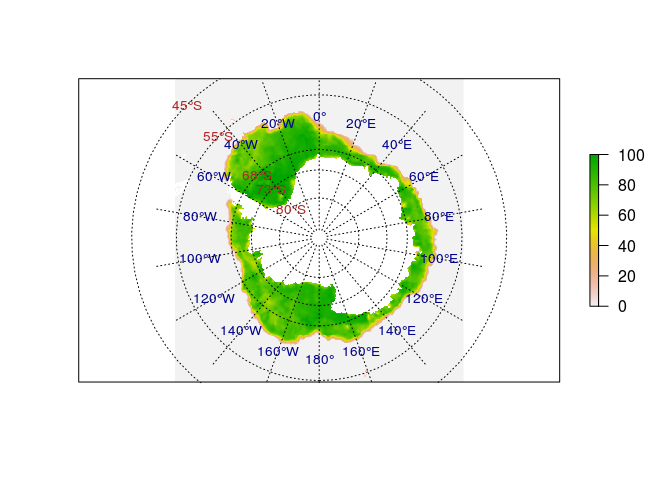
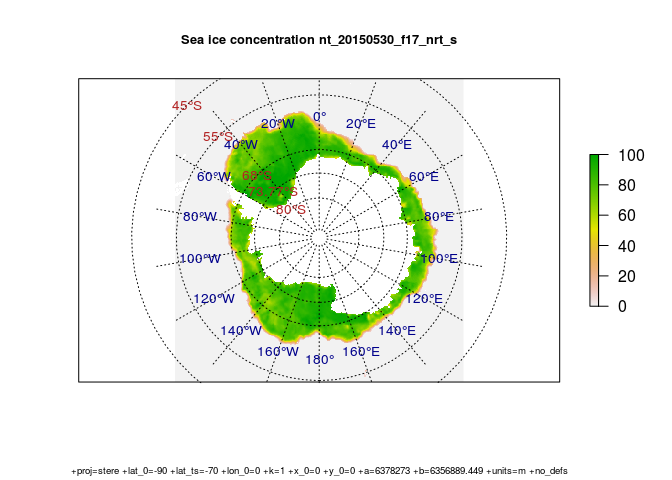
description added

diff --git a/README.md b/README.md
@@ -53,7 +53,7 @@ par(op)
 A polar example
 ---------------
 
-Download some ice concentration data plot with a graticule.
+Download some ice concentration data and plot with a graticule. This is not the prettiest map it could be, the example is showing how we have control over exactly where the lines are created. We can build the lines anywhere, not necessarily at regular intervals or rounded numbers, and we can over or under extend the parallels relative to the meridians and vice versa.
 
 ``` r
 library(raster)
@@ -66,7 +66,7 @@ download.file(icefile, tfile, mode = "wb")
 ice <- raster(tfile)
 
 meridians <- seq(-180, 160, by = 20)
-parallels <- c(-80, -73, -68, -55, -45)
+parallels <- c(-80, -73.77, -68, -55, -45)
 mlim <- c(-180, 180)
 plim <- c(-88, -50)
 grat <- graticule(lons = meridians, lats = parallels, xlim = mlim, ylim = plim, proj = projection(ice))
@@ -74,6 +74,8 @@ labs <- graticule_labels(meridians, parallels, xline = -45, yline = -60, proj = 
 plot(ice, axes = FALSE)
 plot(grat, add = TRUE, lty = 3)
 text(labs, lab = parse(text= labs$lab), col= c("firebrick", "darkblue")[labs$islon + 1], cex = 0.85)
+title(sprintf("Sea ice concentration %s", gsub(".bin", "", basename(tfile))), cex.main = 0.8)
+title(sub = projection(ice), cex.sub = 0.6)
 ```
 
 ![](README-unnamed-chunk-3-1.png)
